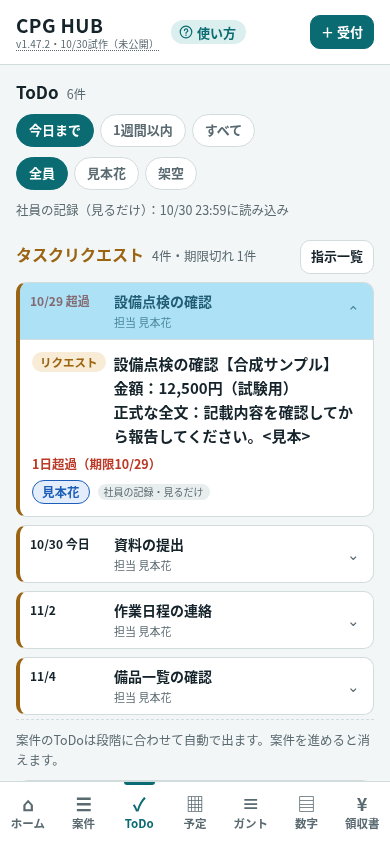
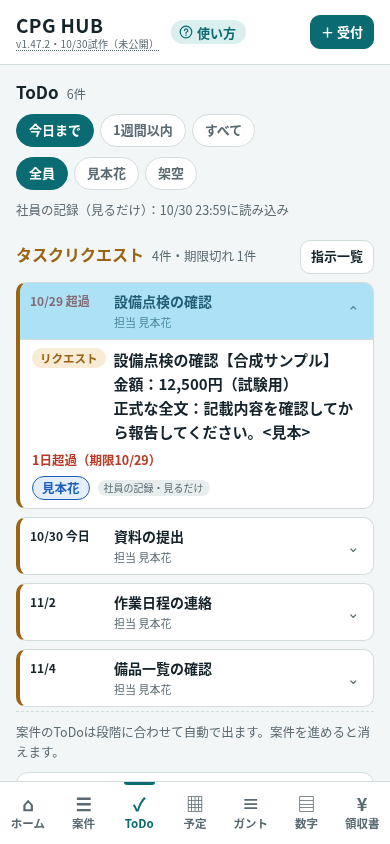
Keep expanded request preview clear of fixed navigation

Changed region(s): [[0.0308, 0.4005, 0.9538, 0.9242]]

diff --git a/index.html b/index.html
@@ -334,7 +334,7 @@ table.items input,table.items select{min-height:36px;padding:5px 8px}
 .request-date{font-size:12px;font-weight:700;white-space:nowrap}.request-date.is-late{color:var(--red)}
 .request-short{font-weight:700;min-width:0;overflow:hidden;text-overflow:ellipsis;white-space:nowrap;font-size:14px}
 .request-person{grid-column:2;font-size:11px;color:var(--muted);overflow:hidden;white-space:nowrap;text-overflow:ellipsis}
-.request-detail{border-top:1px solid var(--line);padding:8px}.request-detail>.card{border:0;padding:4px;background:transparent}
+.request-detail{border-top:1px solid var(--line);padding:8px}.request-detail>.card{border:0;padding:0 4px;background:transparent}
 .request-detail .ttl{white-space:pre-wrap;overflow-wrap:anywhere}.request-list-link{font-size:12px;min-height:36px}
 </style>
 

diff --git a/docs/request-compact-preview.md b/docs/request-compact-preview.md
@@ -20,7 +20,7 @@ branch: `codex/request-compact-preview`。Draft PRでスマホ幅を確認する
 | 社員 | ![社員・閉](preview/employee-closed.png) | ![社員・開](preview/employee-open.png) |
 | 全社readonly | ![全社・閉](preview/company-closed.png) | ![全社・開](preview/company-open.png) |
 
-820×900 CSS pxは開いたFold相当の参考エミュレーションであり、Fold8実機のCSS寸法と断定しない。スクロール0で閉じた状態は両方とも通常ToDoが2件見える。開いた状態は最初の通常ToDoのタイトル・期限・担当が両方で見える。全社の最初のカード下端約842pxは固定ナビ上端837pxに約5px重なる（タイトル等は隠れない）。長い全文や多数の近い期限の指示すべてで無スクロールを保証するものではない。
+820×900 CSS pxは開いたFold相当の参考エミュレーションであり、Fold8実機のCSS寸法と断定しない。スクロール0で閉じた状態は両方とも通常ToDoが2件見える。開いた状態も最初の通常ToDoカード全体が両方で見える。詳細内の重複した上下余白を計8px削減。カード下端は社員823.53px／全社833.53px、固定ナビ上端837pxで重なりなし（スクロール0）。テストはタイトルだけでなくカード下端までナビより上にあることをassertする。長い全文や多数の近い期限の指示すべてで無スクロールを保証するものではない。
 
 | 表示 | 閉じる | 1件開く |
 | --- | --- | --- |
